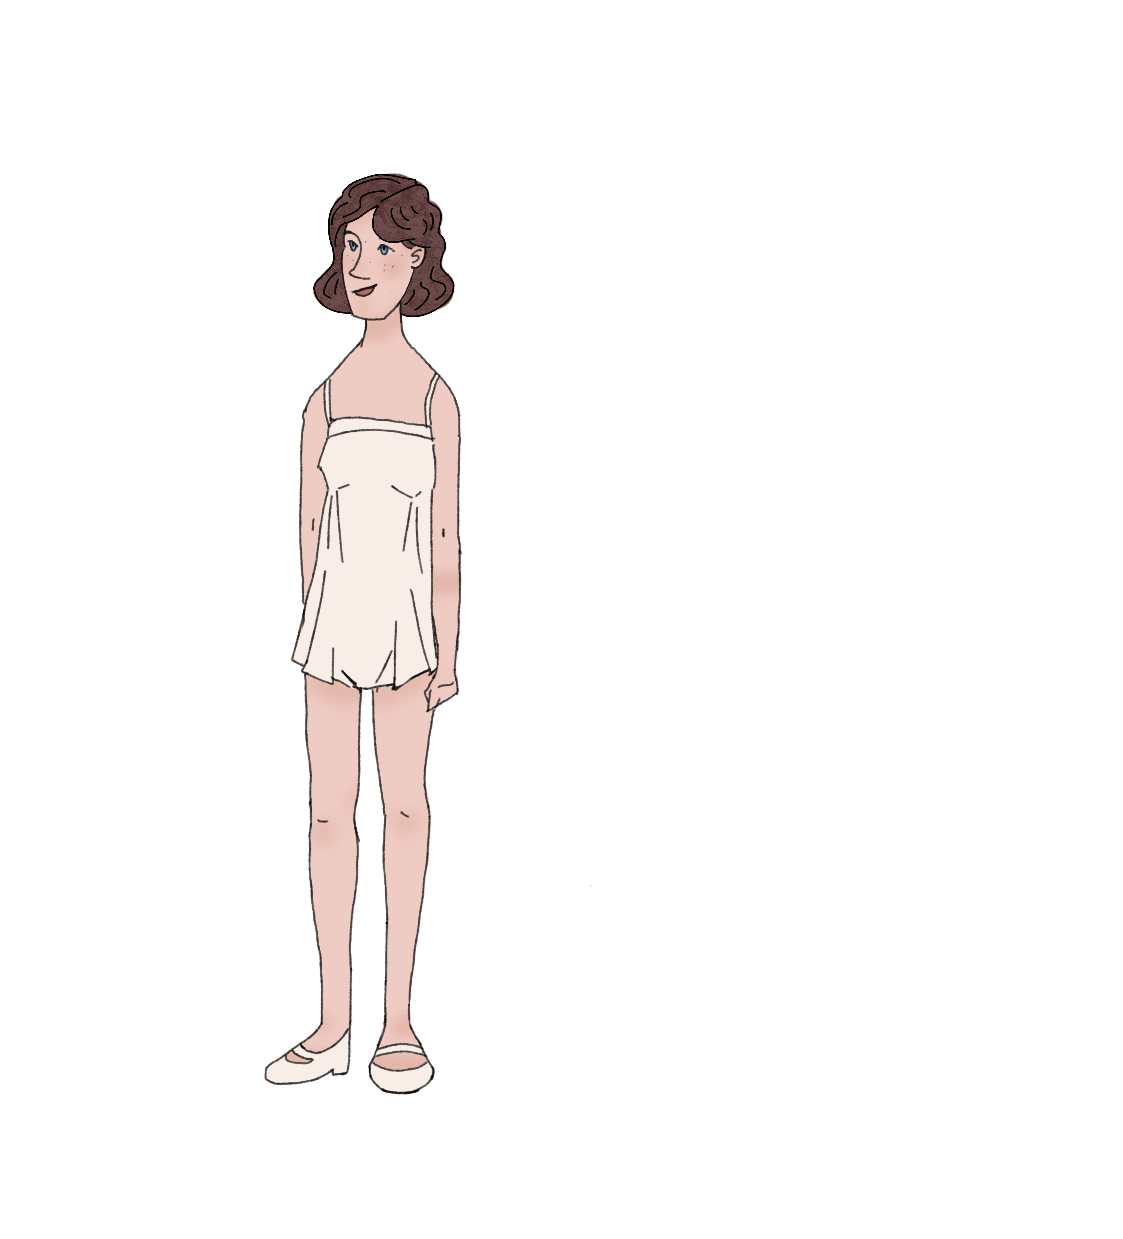
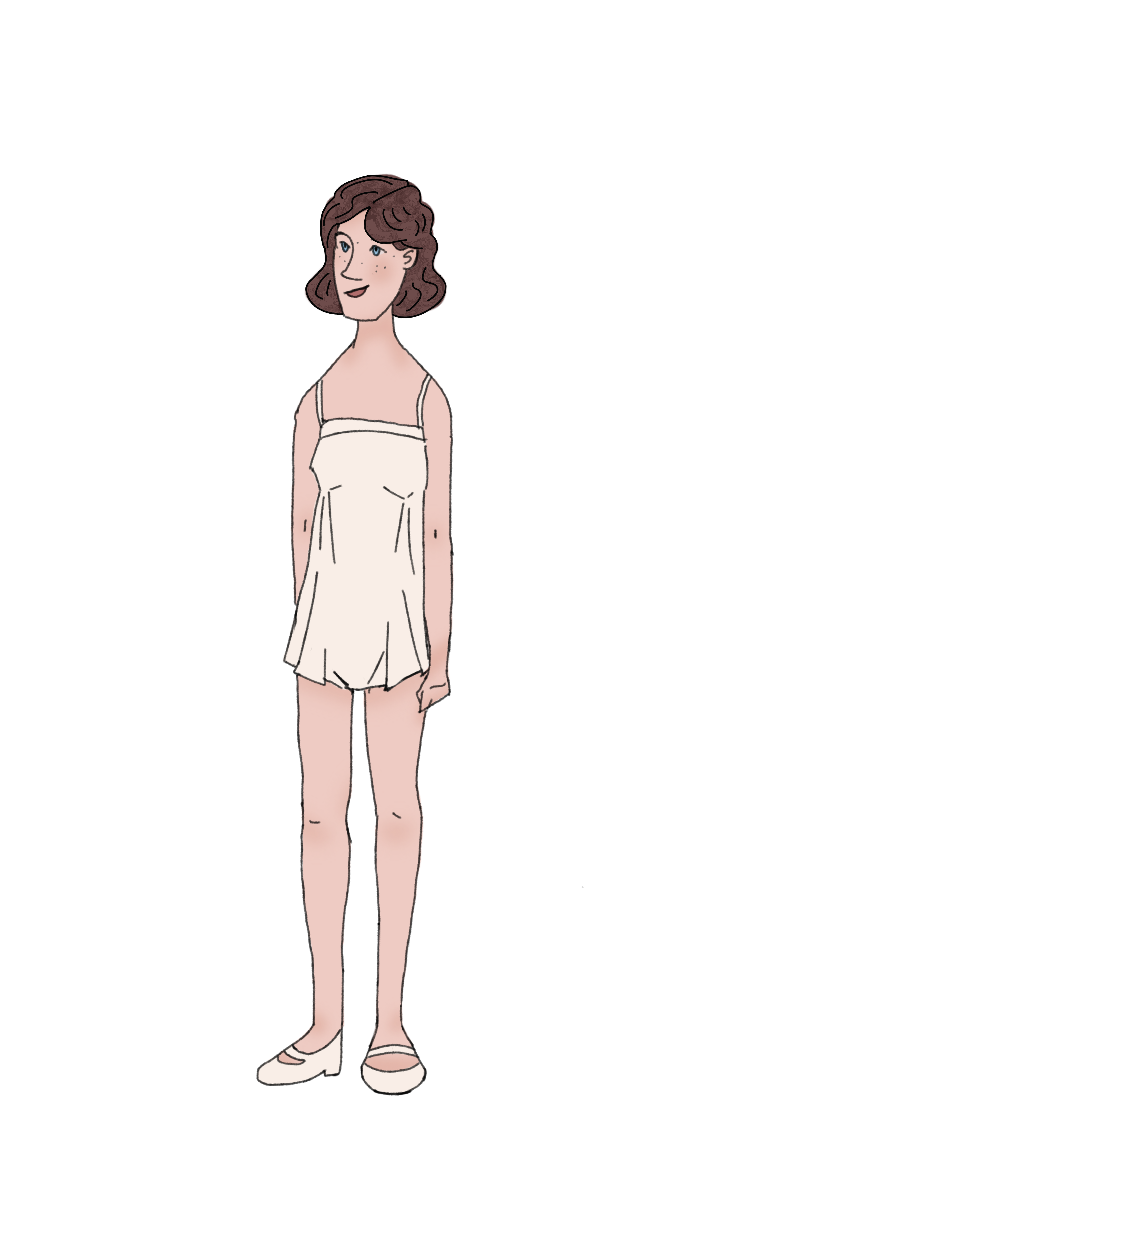
added background image and finally got the base to line up

Changed region(s): [[0.2493, 0.1227, 0.4363, 0.8894], [0.2182, 0.8588, 0.2493, 0.8894]]

diff --git a/src/dress_up.py b/src/dress_up.py
@@ -77,15 +77,15 @@ def draw_game(
     screen.fill((255, 200, 200))
 
     # DRAW CHARACTER
-    screen.blit(body, (250, 100))
+    screen.blit(body, (150, -150))
 
     # DRAW CURRENT DRESS
     if current_dress:
-        screen.blit(current_dress, (250, 100))
+        screen.blit(current_dress, (150, -150))
 
     # DRAW CURRENT SHOES
     if current_shoes:
-        screen.blit(current_shoes, (250, 100))
+        screen.blit(current_shoes, (150, -150))
 
     # DRAW DRESS BUTTONS
     for button in dress_buttons:
@@ -104,7 +104,7 @@ def main():
 
     pygame.init()
 
-    screen = pygame.display.set_mode((800, 600))
+    screen = pygame.display.set_mode((700, 850))
     pygame.display.set_caption("Tuppence Dress Up")
 
     clock = pygame.time.Clock()